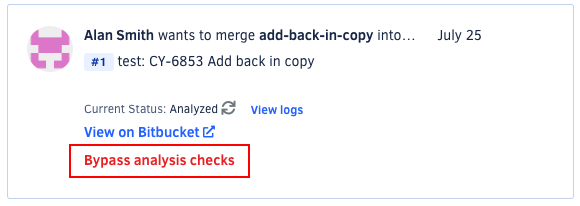
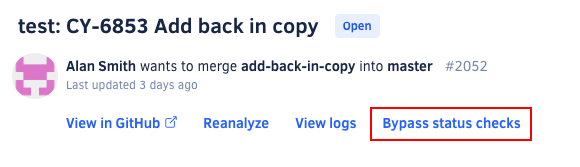
feat: Update Bypass status check to reflect PR screen migration DOCS-678 (#2080)
* feat: Update screenshot and link text

* feat: Update screenshot

diff --git a/docs/faq/code-analysis/can-i-bypass-codacy-status-check.md b/docs/faq/code-analysis/can-i-bypass-codacy-status-check.md
@@ -4,6 +4,6 @@ To protect your code from unwelcome changes, you can [configure your Git workflo
 
 However, on **very specific and exceptional situations** where your pull request merging is blocked due to an unexpected issue not related to the quality of your code, Codacy allows **repository admins** to bypass the Codacy status check for that pull request.
 
-To bypass Codacy status check for a pull request, a repository admin must click **Bypass analysis checks** on the [pull request status area](../../repositories/pull-requests.md#status) of the pull request detail screen.
+To bypass Codacy status check for a pull request, a repository admin must click **Bypass status checks** on the [pull request status area](../../repositories/pull-requests.md#status) of the pull request detail screen.
 
 ![Bypass status check for pull request](images/bypass-status-check.png)
